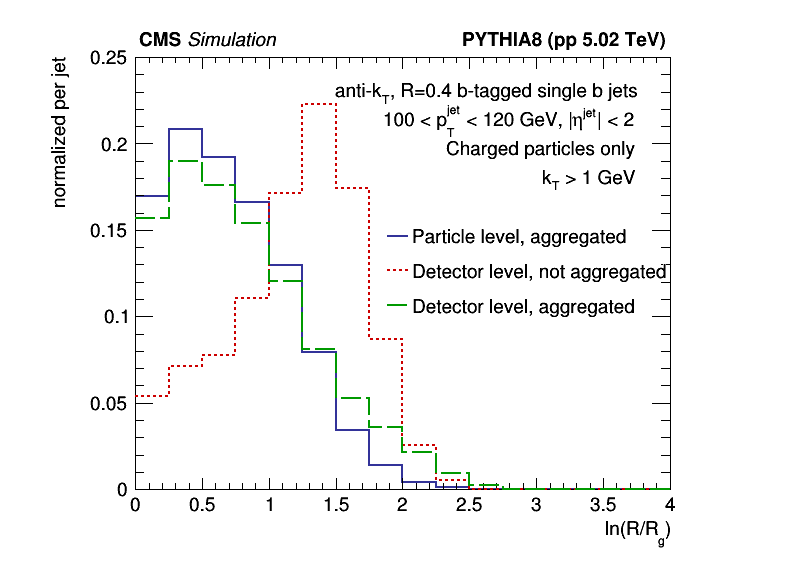
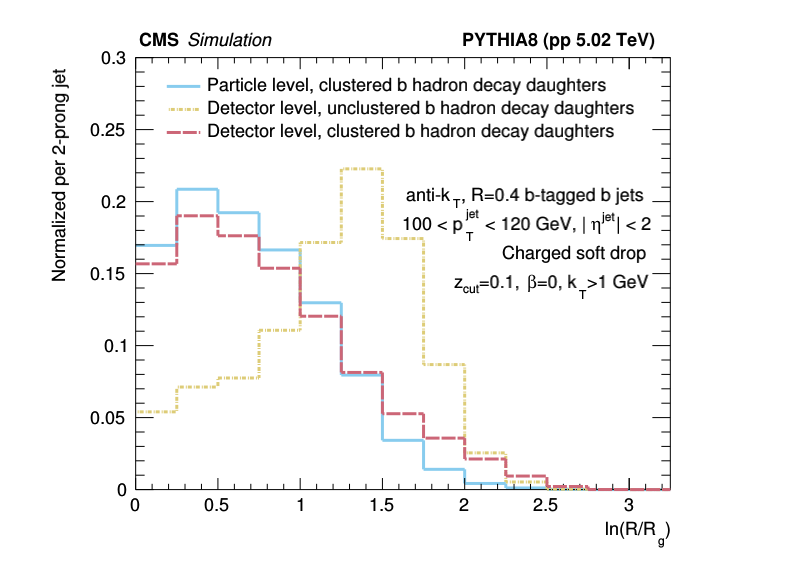
update aggregation plots for cosmetic comments

diff --git a/myMacros/C106X/draw_aggr_vs_not.C b/myMacros/C106X/draw_aggr_vs_not.C
@@ -1,4 +1,5 @@
 #include "draw_utils.h"
+#include "colorblind_palette.h"
 
 void draw_aggr_vs_not(TString observable="rg")
 {
@@ -30,24 +31,26 @@ void draw_aggr_vs_not(TString observable="rg")
 
     TH1F *hSingleBtag_gen_aggr_1d = (TH1F *) hSingleBtag_gen_aggr->ProjectionX("hSingleBtag_gen_aggr_1d", min_kt_bin, max_kt_bin);
     hSingleBtag_gen_aggr_1d->Scale(1/hSingleBtag_gen_aggr_1d->Integral());
-    hSingleBtag_gen_aggr_1d->SetLineColor(kBlue-2);
-    hSingleBtag_gen_aggr_1d->SetLineWidth(2);
+    hSingleBtag_gen_aggr_1d->SetLineColor(myLightBlue);
+    hSingleBtag_gen_aggr_1d->SetLineWidth(3);
     hSingleBtag_gen_aggr_1d->GetXaxis()->SetTitle(xlabel);
-    hSingleBtag_gen_aggr_1d->GetYaxis()->SetTitle("normalized per jet");
-    hSingleBtag_gen_aggr_1d->GetYaxis()->SetRangeUser(0., 0.25);
+    hSingleBtag_gen_aggr_1d->GetYaxis()->SetTitle("Normalized per 2-prong jet");
+    hSingleBtag_gen_aggr_1d->GetXaxis()->SetRangeUser(0., 3.1);
+    hSingleBtag_gen_aggr_1d->GetYaxis()->SetRangeUser(0., 0.3);
+    if (observable=="zg") hSingleBtag_gen_aggr_1d->GetYaxis()->SetRangeUser(0., 0.25);
     hSingleBtag_gen_aggr_1d->SetLineStyle(1);
 
     TH1F *hSingleBtag_reco_aggr_1d = (TH1F *) hSingleBtag_reco_aggr->ProjectionX("hSingleBtag_reco_aggr_1d", min_kt_bin, max_kt_bin);
     hSingleBtag_reco_aggr_1d->Scale(1/hSingleBtag_reco_aggr_1d->Integral());
-    hSingleBtag_reco_aggr_1d->SetLineColor(kGreen+2);
-    hSingleBtag_reco_aggr_1d->SetLineWidth(2);    
+    hSingleBtag_reco_aggr_1d->SetLineColor(myLightRed);
+    hSingleBtag_reco_aggr_1d->SetLineWidth(3);    
     hSingleBtag_reco_aggr_1d->SetLineStyle(9);
 
     TH1F *hSingleBtag_reco_noAggr_1d = (TH1F *) hSingleBtag_reco_noAggr->ProjectionX("hSingleBtag_reco_noAggr_1d", min_kt_bin, max_kt_bin);
     hSingleBtag_reco_noAggr_1d->Scale(1/hSingleBtag_reco_noAggr_1d->Integral());
-    hSingleBtag_reco_noAggr_1d->SetLineColor(kRed+1);
-    hSingleBtag_reco_noAggr_1d->SetLineWidth(2); 
-    hSingleBtag_reco_noAggr_1d->SetLineStyle(2);
+    hSingleBtag_reco_noAggr_1d->SetLineColor(myYellow);
+    hSingleBtag_reco_noAggr_1d->SetLineWidth(3); 
+    hSingleBtag_reco_noAggr_1d->SetLineStyle(5);
 
     TCanvas *c_aggr_vs_noAggr = new TCanvas("c_aggr_vs_noAggr", "", 800, 600);
     c_aggr_vs_noAggr->SetRightMargin(0.16);
@@ -59,17 +62,23 @@ void draw_aggr_vs_not(TString observable="rg")
     TLatex *jet_info = new TLatex;
     jet_info->SetNDC();
     jet_info->SetTextSize(text_size);
-    jet_info->DrawLatex(0.42, 0.83, "anti-k_{T}, R=0.4 b-tagged single b jets");
-    jet_info->DrawLatex(0.48, 0.78, "100 < p_{T}^{jet} < 120 GeV, |#eta^{jet}| < 2");
-    jet_info->DrawLatex(0.56, 0.73, "Charged particles only");
-    jet_info->DrawLatex(0.68, 0.68, "k_{T} > 1 GeV");
+    // for png
+    // jet_info->DrawLatex(0.52, 0.65, "anti-k_{T}, R=0.4 b-tagged b jets");
+    // jet_info->DrawLatex(0.505, 0.6, "100 < p_{T}^{jet} < 120 GeV, |#eta^{jet}| < 2");
+    // jet_info->DrawLatex(0.64, 0.55, "Charged soft drop");
+    // jet_info->DrawLatex(0.575, 0.5, "z_{cut}=0.1, #beta=0, k_{T}>1 GeV");
+    // for pdf
+    jet_info->DrawLatex(0.51, 0.65, "anti-k_{T}, R=0.4 b-tagged b jets");
+    jet_info->DrawLatex(0.505, 0.6, "100 < p_{T}^{jet} < 120 GeV, |#eta^{jet}| < 2");
+    jet_info->DrawLatex(0.63, 0.55, "Charged soft drop");
+    jet_info->DrawLatex(0.57, 0.5, "z_{cut}=0.1, #beta=0, k_{T}>1 GeV");
 
-    TLegend *leg = new TLegend(0.48, 0.44, 0.85, 0.62);
+    TLegend *leg = new TLegend(0.2, 0.75, 0.8, 0.87);
     leg->SetFillStyle(0);
     leg->SetMargin(0.1);
-    leg->AddEntry(hSingleBtag_gen_aggr_1d, "Particle level, aggregated", "l");
-    leg->AddEntry(hSingleBtag_reco_noAggr_1d, "Detector level, not aggregated", "l");
-    leg->AddEntry(hSingleBtag_reco_aggr_1d, "Detector level, aggregated", "l");
+    leg->AddEntry(hSingleBtag_gen_aggr_1d, "Particle level, clustered b hadron decay daughters", "l");
+    leg->AddEntry(hSingleBtag_reco_noAggr_1d, "Detector level, unclustered b hadron decay daughters", "l");
+    leg->AddEntry(hSingleBtag_reco_aggr_1d, "Detector level, clustered b hadron decay daughters", "l");
     leg->Draw();
 
     c_aggr_vs_noAggr->Print("plots_an/"+observable+"_aggr_vs_not.png");
